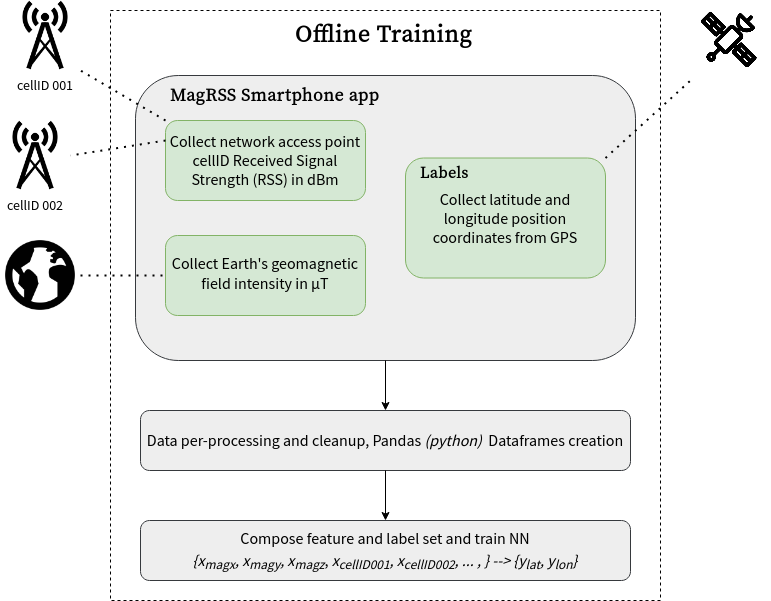
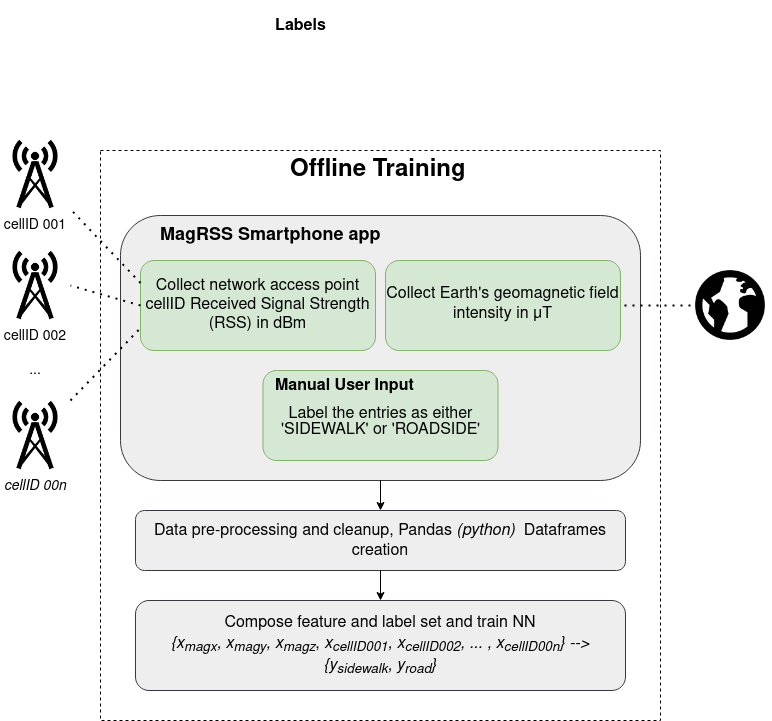
README -- proof of concept. Images updates

diff --git a/README.md b/README.md
@@ -5,10 +5,32 @@ This project aims to recollect fingerprint data from smartphone's built-in magne
 By doing a mapping between...:
 
 ```
-{ GPS coordinates } ---> { Geomagnetic field strength  and Cellular signal strength }
+ { Geomagnetic field strength  and Cellular signal strength }
+↳{Road Lane Position a.k.a *Road* or *Sidewalk*}
 ```
 
-...And training a Neural Network with the above data *(and some crowdsourcing of course!)*, we can hopefuly localize users/smartphones using only the latter sensors (magnetometer and cellular) without having to rely on the resource-intensive GPS module.
+...And training a Neural Network with the above data *(and some crowdsourcing of course!)*, we can hopefuly localize users/smartphones position relative to the road using only the latter sensors (magnetometer and cellular) without having to rely on the resource-intensive GPS module.
+
+## Proof of concept
+
+Have a smartphone application that logs:
++ GPS
++ Accelerometer
++ Gyroscope
++ Magnetometer
++ Cellular towers RSS
+
+![MagRSS Proof of Concept](docs/assets/proof_of_concept_1.png)
+
+Have the user collect and label the entries as
++ Road
++ Sidewalk
+
+Depending on where the measurements are being taken
+
+![Sensors output](docs/assets/tmi_plot.PNG)
+
+The log from the sensors should provide a distinction between either of both lanes and should be suitable for labeling the entries and training a ML model.
 
 ## Usage Flow
 
@@ -22,6 +44,12 @@ The Android application will start to automatically log each of the aforemention
 
 ### Example training data entries (.csv)
 
-latitude | longitude | magnetometer X | magnetometer Y | magnetometer Z | cellID001_dBm | cellID002_dBm | *cellID...* | hour of day (HH)
--------- | --------- | -------------- | -------------- | -------------- | ------------- | ------------- | --- | ---------
-24.7893686 | 120.9950572 | 15.599999 | 15.54 | -43.02 | -85 | -80 | ... | 1700
+latitude | longitude | magnetometer X | magnetometer Y | magnetometer Z | cellID001_dBm | cellID002_dBm | *cellID...* | LABEL | hour of day (HH)
+-------- | --------- | -------------- | -------------- | -------------- | ------------- | ------------- | --------- | ----- | ---------
+24.7893686 | 120.9950572 | 15.599999 | 15.54 | -43.02 | -85 | -80 | ... | SIDEWALK | 1700
+24.789374 | 120.9950519 | 38.579998 | 15.0 | -21.06 | -85 | -80 | ... | SIDEWALK | 1700
+... | ... | ... | ... | ... | ... | ... | ... | ... | ...
+24.7895087 | 120.9949591 | 43.379997 | 8.4 | 8.58 | 0 | -94 | ... | ROAD | 1700
+... | ... | ... | ... | ... | ... | ... | ... | ... | ...
+
+Notice how *cellID001* does not have a measurement in all entries, this is because the smartphone won't always be attached to this Access Point for all locations where the logs are being collected.
